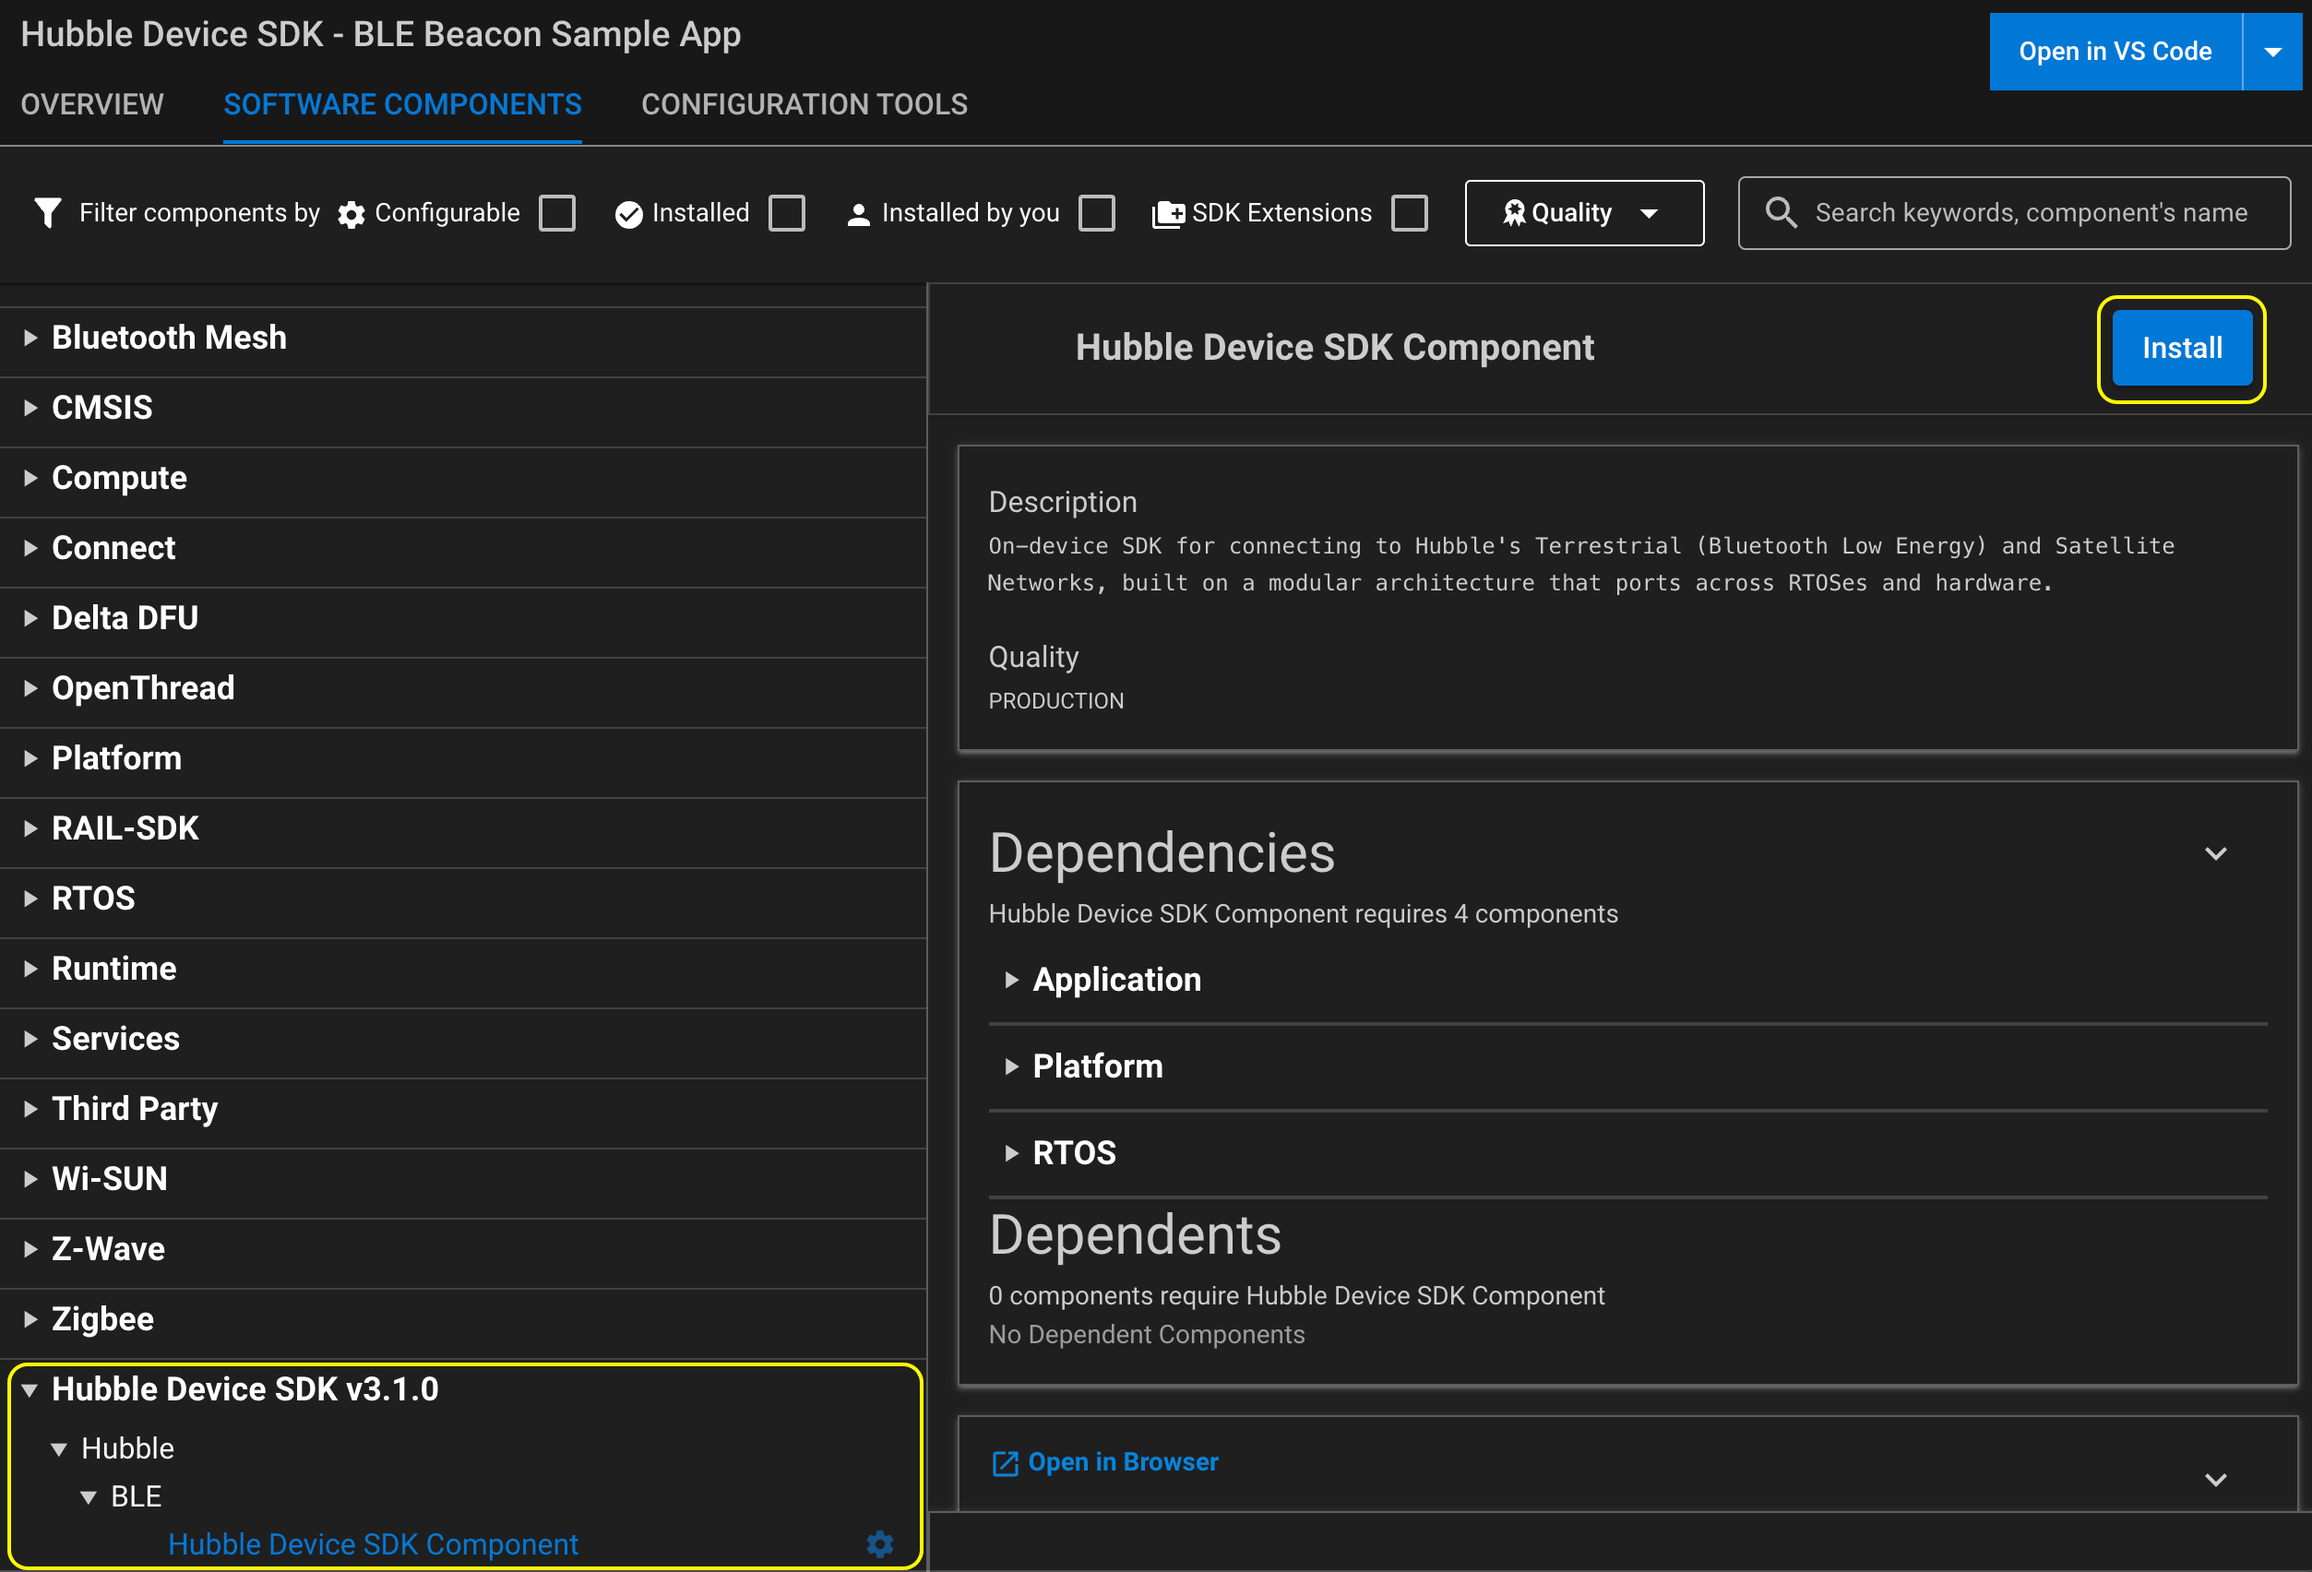
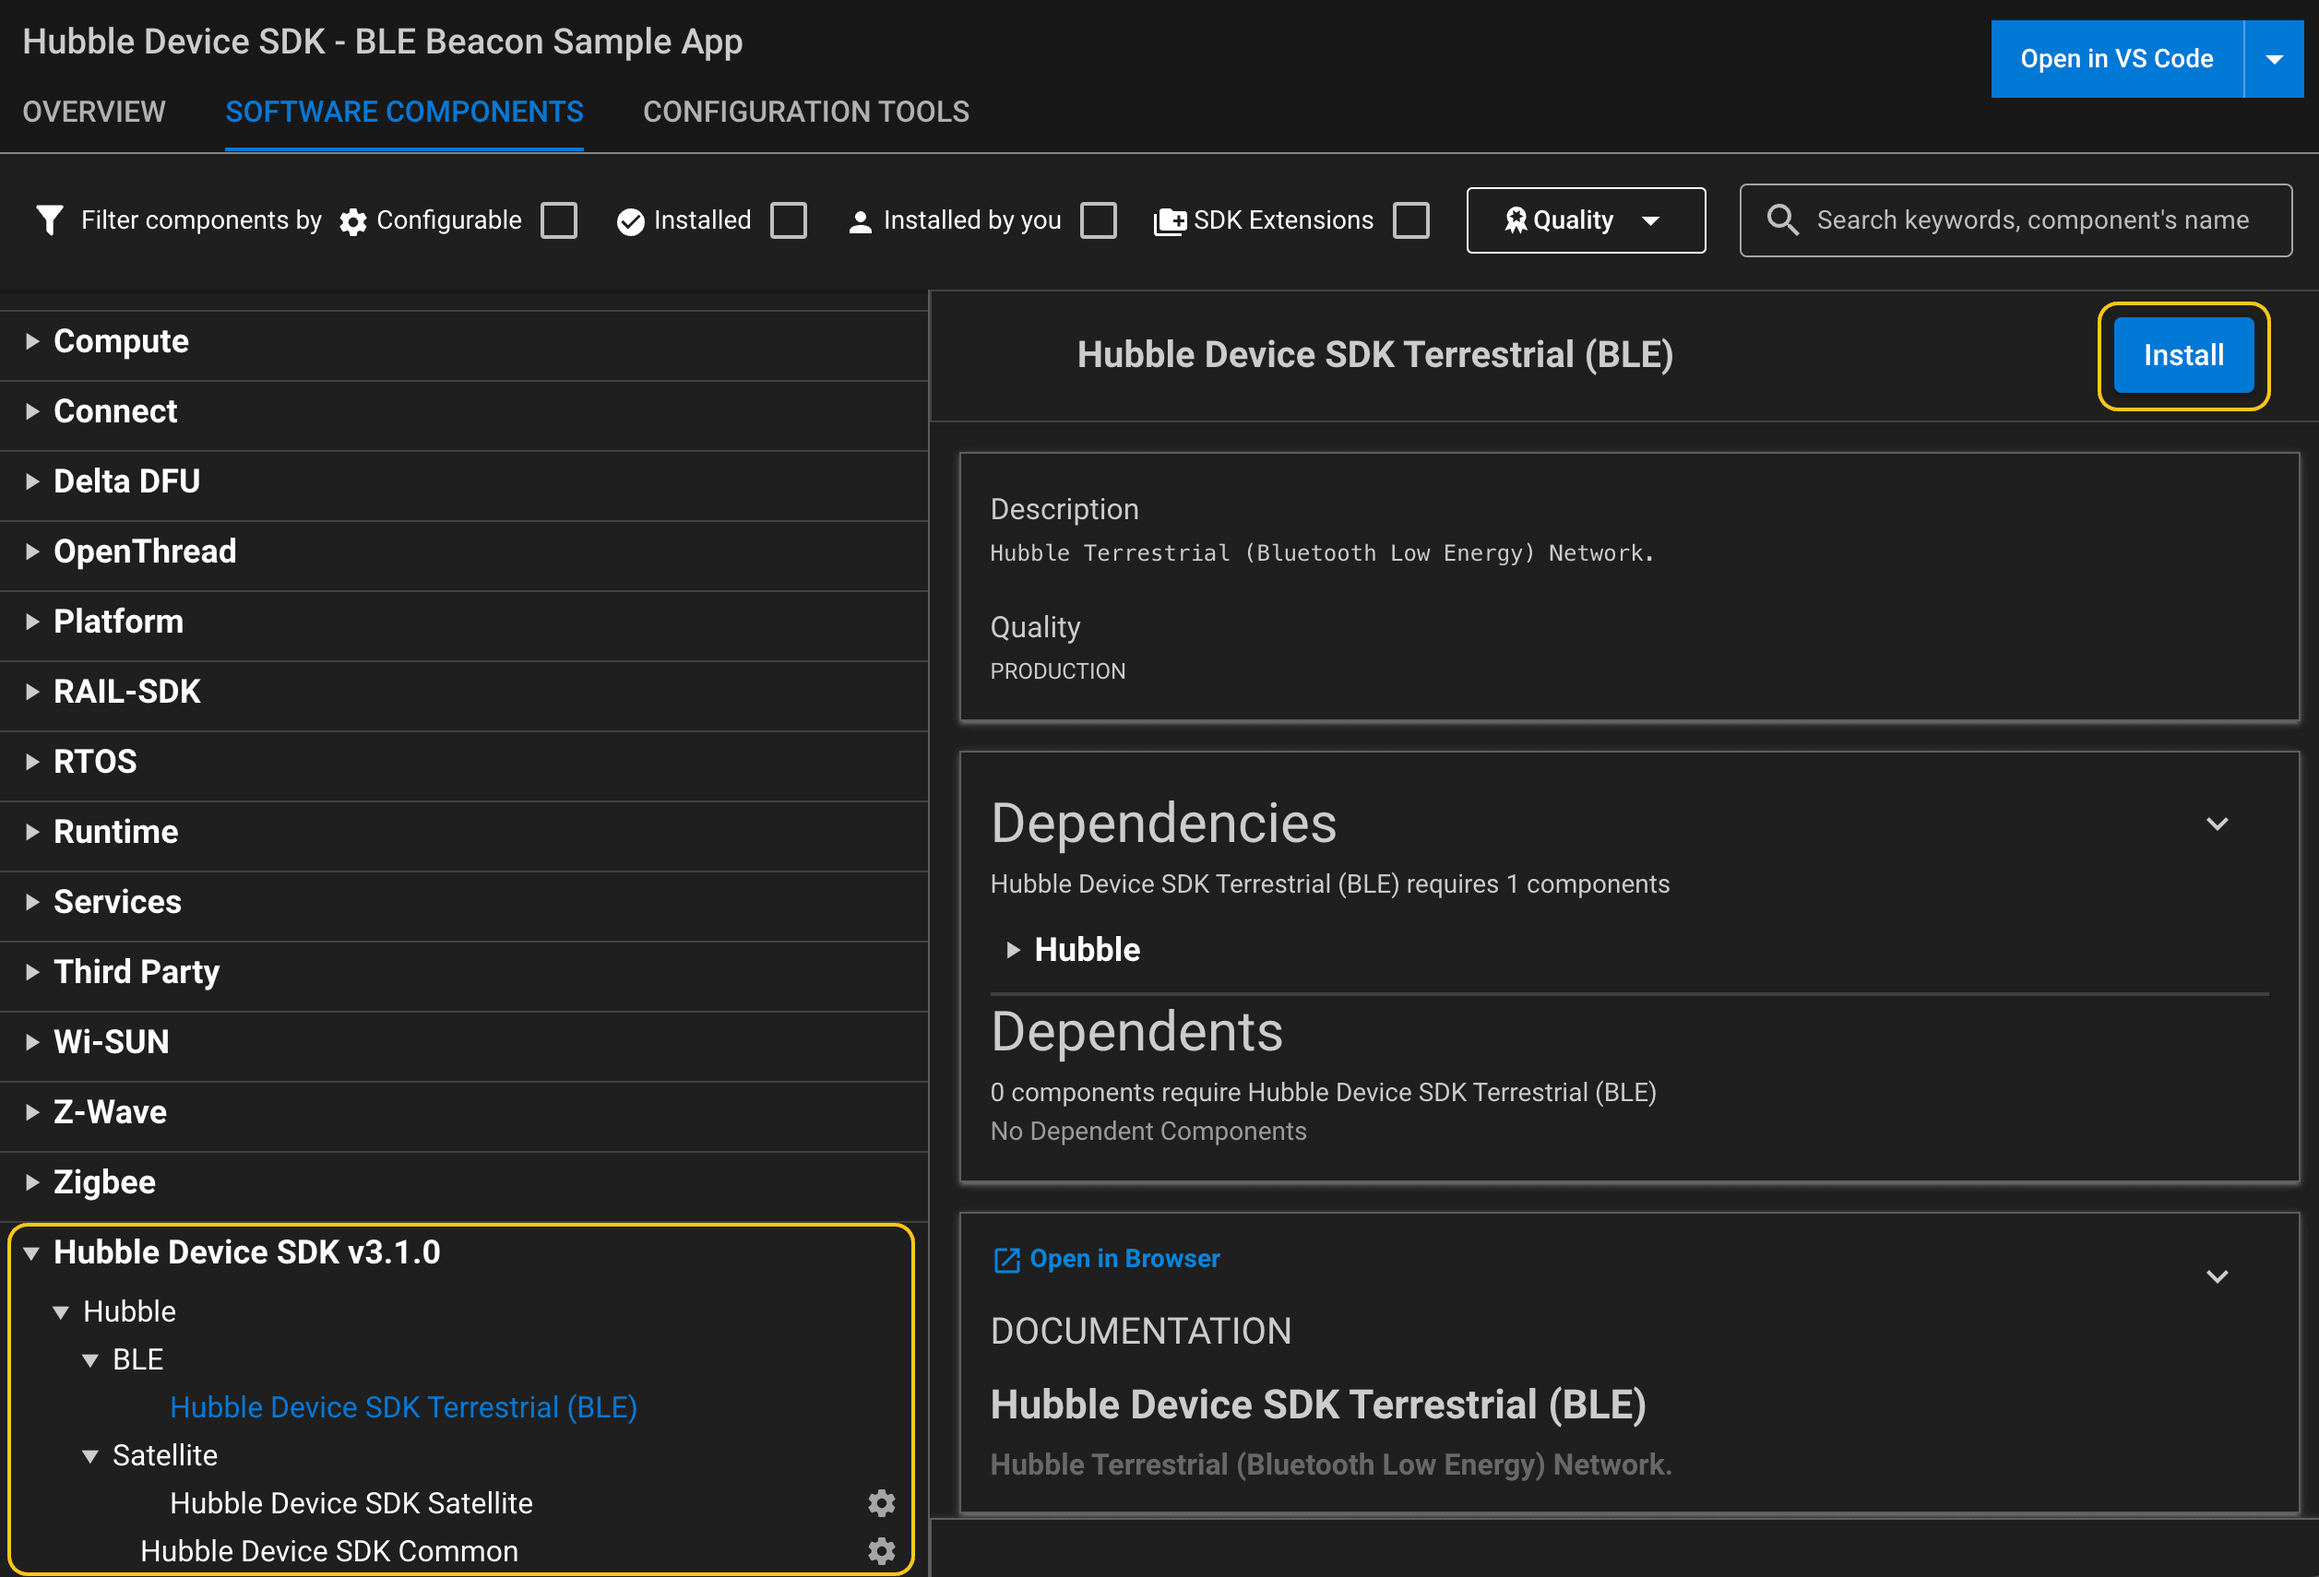
docs: quickstart/silabs: update guide to include satellite component
Update quickstart guide to include satellite component, and reflect
the new component split: common, BLE, and satellite.

diff --git a/docs/quickstart/silabs/index.rst b/docs/quickstart/silabs/index.rst
@@ -10,10 +10,11 @@ This guide explains how to integrate the Hubble Device SDK into a
 ``.slcp`` file, and the SLC tooling pulls in the SDK sources, include paths,
 and configuration.
 
-.. note::
+.. seealso::
 
-   Only the Hubble Terrestrial (BLE) Network is currently supported on
-   Simplicity SDK FreeRTOS.
+   This page covers Simplicity SDK setup and adding the Hubble components.
+   For a complete, end-to-end **satellite dual-stack** application on SiLabs
+   FreeRTOS, see the :ref:`silabs_freertos_integration_guide`.
 
 Prerequisites
 *************
@@ -24,8 +25,8 @@ Prerequisites
 
       - `Simplicity Studio 6 <https://www.silabs.com/developer-tools/simplicity-studio>`_
         with the Simplicity SDK installed.
-      - The ``slc-cli`` tool, which is still needed to install the extension
-        (see :ref:`silabs_install_extension`).
+      - The ``slc-cli`` tool, which is still needed to generate the sample
+        project (see :ref:`silabs_quick_start_build`).
 
    .. tab:: Command line
 
@@ -34,7 +35,10 @@ Prerequisites
       Simplicity Commander (``commander``), installed with the
       `Silicon Labs Tool (SLT) <https://docs.silabs.com/simplicity-installer-slt/latest/slt-getting-started-slt-cli/first-time-installation-setup>`_.
 
-- A Silicon Labs board with Bluetooth® Low Energy support.
+- For the Hubble Terrestrial (BLE) Network: a Silicon Labs board with
+  Bluetooth® Low Energy support.
+- For the Hubble Satellite Network: a satellite-capable board (see
+  :ref:`silabs_freertos_supported_devices`).
 - The Hubble Device SDK cloned or added as a submodule.
 - Device ``key`` (generated when you register a new device to your organization
   through the Hubble Cloud API).
@@ -59,18 +63,28 @@ Set the following environment variables before continuing, e.g.:
 Installing the Extension
 ************************
 
-SLC discovers extensions under the Simplicity SDK's ``extension`` directory.
-Link the Hubble Device SDK there and register both the SDK and the extension
-as trusted:
+.. tabs::
 
-.. code-block:: bash
+   .. tab:: Simplicity Studio
 
-   mkdir -p $SISDK/extension
-   ln -s $HUBBLE_SDK $SISDK/extension/hubble-device-sdk
+      #. Go to **Settings** → **SDKs** and select the Simplicity SDK version
+         you want to use.
+      #. Click **Add Extension**, then **Browse** to the directory where you
+         cloned the Hubble Device SDK, and click **Finish**.
+      #. In the **Verify SDK Extensions** dialog, click **Trust**.
 
-   $SLC configuration --sdk $SISDK
-   $SLC signature trust --sdk $SISDK
-   $SLC signature trust -extpath $SISDK/extension/hubble-device-sdk
+   .. tab:: Command line
+
+      SLC discovers extensions under the Simplicity SDK's ``extension``
+      directory. Link the Hubble Device SDK there and register the extension
+      as trusted:
+
+      .. code-block:: bash
+
+         mkdir -p $SISDK/extension
+         ln -s $HUBBLE_SDK $SISDK/extension/hubble-device-sdk
+
+         $SLC signature trust -extpath $SISDK/extension/hubble-device-sdk
 
 
 Adding Hubble Network to a Project
@@ -94,8 +108,11 @@ Adding Hubble Network to a Project
             :align: center
             :class: step-image
 
-      3. Select **Hubble Device SDK Component** (under **Hubble** → **BLE**)
-         and click **Install**.
+      3. Select the component for the network you want and click **Install**.
+         Install both for a dual-stack application:
+
+         - **Hubble Device SDK Terrestrial (BLE)** (under **Hubble** → **BLE**)
+         - **Hubble Device SDK Satellite** (under **Hubble** → **Satellite**)
 
          .. image:: img/QuickStart_Silabs_Install.webp
             :alt: Installing the Hubble Device SDK Component
@@ -105,7 +122,8 @@ Adding Hubble Network to a Project
    .. tab:: Command line
 
       Declare the extension in your project's ``.slcp`` file and add the
-      Hubble component:
+      Hubble component for the network you want. Add both for a dual-stack
+      application:
 
       .. code-block:: yaml
 
@@ -116,23 +134,29 @@ Adding Hubble Network to a Project
              version: 3.1.0
 
          component:
-           - id: hubble-device-sdk-component
+           - id: hubble-device-sdk-ble
+             from: hubble-device-sdk
+           - id: hubble-device-sdk-sat
              from: hubble-device-sdk
 
 
 Configuration
 *************
 
-The SDK is configured through ``hubble_config.h``. See
-``$HUBBLE_SDK/port/sisdk/hubble_config.h`` for the available options and
-their defaults.
+The SDK is configured through ``hubble_config.h`` (common options) and
+``hubble_sat_config.h`` (satellite options). See ``$HUBBLE_SDK/port/sisdk/``
+for the available options and their defaults.
 
 .. tabs::
 
    .. tab:: Simplicity Studio
 
-      In the Project Configurator, open **Software Components**, select
-      **Hubble Device SDK Component**, and click **Configure**.
+      In the Project Configurator, open **Software Components**, select the
+      component and click **Configure**:
+
+      - **Hubble Device SDK Common** (under **Hubble**) for the common options.
+      - **Hubble Device SDK Satellite** (under **Hubble** → **Satellite**) for
+        the satellite options.
 
       .. image:: img/QuickStart_Silabs_Configure.webp
          :alt: Configuring the Hubble Device SDK Component
@@ -150,6 +174,8 @@ their defaults.
            - name: SISDK_HUBBLE_NETWORK_SEQUENCE_NONCE_CUSTOM
              value: "1"
 
+
+.. _silabs_quick_start_build:
 
 Building and Running Your First Application
 *******************************************
@@ -172,7 +198,7 @@ Embed the device key and the current time into the sample sources:
 
       .. code-block:: bash
 
-         $SLC generate -tlcn gcc -np -p ble_beacon.slcp \
+         $SLC generate --sdk $SISDK -tlcn gcc -np -p ble_beacon.slcp \
              -d /path/to/workspace/ble-beacon --with brd4187c
 
       Then in Simplicity Studio go to **PROJECTS** → **Open Project(s)**,
@@ -185,7 +211,7 @@ Embed the device key and the current time into the sample sources:
 
       .. code-block:: bash
 
-         $SLC generate -tlcn gcc -o makefile -cp -p ble_beacon.slcp \
+         $SLC generate --sdk $SISDK -tlcn gcc -o makefile -cp -p ble_beacon.slcp \
              -d generated_sample_app --with brd4187c
          cd generated_sample_app
          make -f ble_beacon.Makefile
